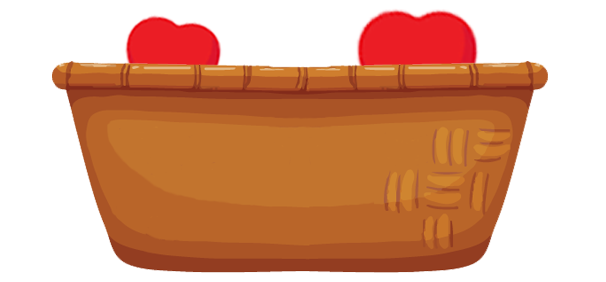
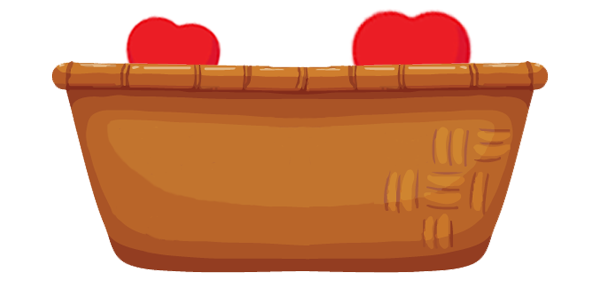
Apple-Basket animation complete!

Changed region(s): [[0.5644, 0.0284, 0.802, 0.227]]

diff --git a/index.html b/index.html
@@ -31,7 +31,7 @@
                     <img class="apple4" src="Extras/apple41.png"/>
                     <img class="apple5" src="Extras/apple51.png"/>
                     <img class="basket1" src="Extras/basket.png"/>
-                    <img class="basket2" src="Extras/basket.png"/>
+                    <img class="basket2" src="Extras/basket2.png"/>
                     
 <!--                    <p>hell</p>-->
 <!--
@@ -85,9 +85,7 @@
                     apple1.animate({ top: wh - 205 }, 1200, 'easeInQuad', function(){
 //                        apple1.css({visibility: 'collapse'}); 
                         if (!flaga5){
-                            $('.basket1').delay(0).queue(function(next){
-                                $(this).attr('src', 'Extras/basket_a1_f.png');
-                            })
+                            $('.basket1').attr('src', 'Extras/basket_a1_f.png');
                         }
                         else{
                              $('.basket1').attr('src', 'Extras/basket_a1_a5.png');
@@ -95,13 +93,6 @@
                         }
                     flaga1 = true;
                     apple1.remove();
-                        
-                    
-    //                    $('.right-side').delay(1000).queue(function(){
-    //                       $('.right-side').append('<img class="apple1" src ="Extras/apple11.png"/>');
-    //                        applie();
-    //                        apple1drop();
-    //                    })
                     });
                     
                     
@@ -131,27 +122,31 @@
                 var bar = $('#progressbar');
                 var presentvalue = bar.val();
                 if (presentvalue < 100){
-                    var bartop = bar.offset().top;
-                    //bar.val(60);            
+                    var bartop = bar.offset().top;           
                     var scrolltext = $('.scroll-down-text');
                     var top1 = scrolltext.offset().top;
                     var wh = $(window).height();
                     bar.animate({ value: "+=30" }, 1000);
 
-
                     var apple2 = $('.apple2');
-                    apple2.animate({ top: wh - 140 }, 1200, 'easeInQuad', function(){
-    //                    apple2.css({visibility: 'collapse'});
-                        
+                    apple2.animate({ top: wh - 250 }, 1200, 'easeInQuad', function(){
+                        if (!flaga3 && !flaga4){
+                            $('.basket2').attr('src', 'Extras/basket_a2.png');
+                        }
+                        else if (flaga3 && !flaga4){
+                            $('.basket2').attr('src', 'Extras/basket_a3_a2.png');
+                        }
+                        else if (!flaga3 && flaga4){
+                            $('.basket2').attr('src', 'Extras/basket_a4_a2.png');
+                        }
+                        else{
+                            $('.basket2').attr('src', 'Extras/basket_a3_a4_a2.png');
+                        }
                         apple2.remove();
-    //                    $('.right-side').delay(1000).queue(function(){
-    //                       $('.right-side').append('<img class="apple2" src ="Extras/apple21.png"/>');
-    //                        applie();
-    //                        apple2drop();
-    //                    })
                     });
-
-
+                    
+                    flaga2 = true;
+                    
                     if (top1 + 0.3*wh < wh - 40){
                         scrolltext.animate({top: top1 + 0.3*wh - 7}, 1000);
                     }
@@ -174,7 +169,6 @@
                 var presentvalue = bar.val();
                 if (presentvalue < 100){
                     var bartop = bar.offset().top;
-                    //bar.val(60);            
                     var scrolltext = $('.scroll-down-text');
                     var top1 = scrolltext.offset().top;
                     var wh = $(window).height();
@@ -182,28 +176,25 @@
 
 
                     var apple3 = $('.apple3');
-                    apple3.animate({ top: wh - 140 }, 1200, 'easeInQuad', function(){
-    //                    apple3.css({visibility: 'collapse'});
-//                        if (true){
-//                            $('.basket1').delay(0).queue(function(next){
-//                                $(this).attr('src', 'Extras/basket_a3_f.png')
-//                            })
-//                        }
-//                        else{
-//                             $('.basket1').delay(0).queue(function(next){
-//                            $(this).attr('src', 'Extras/basket_a1_a3.png')
-//                             })
-//                        }
+                    apple3.animate({ top: wh - 250 }, 1200, 'easeInQuad', function(){
+                        apple3.css({visibility: 'collapse'});
+                        if (!flaga4 && !flaga2){
+                           $('.basket2').attr('src', 'Extras/basket_a3.png');
+                        }
+                        else if (flaga4 && !flaga2){
+                            $('.basket2').attr('src', 'Extras/basket_a3_a4.png');
+                        }
+                        else if (!flaga4 && flaga2){
+                           $('.basket2').attr('src', 'Extras/basket_a3_a2.png');
+                        }
+                        else{
+                            $('.basket2').attr('src', 'Extras/basket_a3_a4_a2.png');
+                        }
                         apple3.remove();
-//                        flaga3 = true;
-    //                    $('.right-side').delay(1000).queue(function(){
-    //                        $('<img class="apple3" src ="Extras/apple31.png" css="top:0!important"/>').appendTo($('.right-side'));
-    ////                        $('.right-side').add('<img class="apple3" src ="Extras/apple31.png"/>');
-    ////                       $('.right-side').append('<img class="apple3" src ="Extras/apple31.png"/>');
-    //                        applie();
-    //                        apple3drop();
-    //                    })
+                        
                     });
+                    
+                    flaga3 = true;
 
                     if (top1 + 0.4*wh < wh - 40){
                         scrolltext.animate({top: top1 + 0.4*wh - 7}, 1000);
@@ -235,15 +226,24 @@
                     bar.animate({ value: "+=20" }, 1000);
 
                     var apple4 = $('.apple4');
-                    apple4.animate({ top: wh - 140 }, 1200, 'easeInQuad', function(){
-    //                    apple1.css({visibility: 'collapse'}); 
+                    apple4.animate({ top: wh - 250 }, 1200, 'easeInQuad', function(){
+                        if (!flaga3 && !flaga2){
+                           $('.basket2').attr('src', 'Extras/basket_a4.png');
+                        }                        
+                        else if (flaga3 && !flaga2){
+                            $('.basket2').attr('src', 'Extras/basket_a3_a4.png');
+                        }
+                        else if (!flaga3 && flaga2){
+                           $('.basket2').attr('src', 'Extras/basket_a4_a2.png');
+                        }
+                        else{
+                           $('.basket2').attr('src', 'Extras/basket_a3_a4_a2.png');
+                        }
                         apple4.remove();
-    //                    $('.right-side').delay(1000).queue(function(){
-    //                       $('.right-side').append('<img class="apple4" src ="Extras/apple41.png"/>');
-    //                        applie();
-    //                        apple4drop();
-    //                    })
                     });
+                    
+                    flaga4 = true;
+
 
                     if (top1 + 0.2*wh < wh - 40){
                         scrolltext.animate({top: top1 + 0.2*wh - 7}, 1000);
@@ -275,7 +275,7 @@
                     bar.animate({ value: "+=30" }, 1000);
 
                     var apple5 = $('.apple5');
-                    apple5.animate({ top: wh - 205 }, 1200, 'easeInQuad', function(){
+                    apple5.animate({ top: wh - 200 }, 1200, 'easeInQuad', function(){
                         if (!flaga1){
                             $('.basket1').delay(0).queue(function(next){
                                 $(this).attr('src', 'Extras/basket_a5_f.png');
@@ -284,14 +284,9 @@
                         else{
                              $('.basket1').attr('src', 'Extras/basket_a1_a5.png');
                         }
+                        
                         flaga5 = true;
-    //                    apple1.css({visibility: 'collapse'}); 
                         apple5.remove();
-    //                    $('.right-side').delay(1000).queue(function(){
-    //                       $('.right-side').append('<img class="apple4" src ="Extras/apple41.png"/>');
-    //                        applie();
-    //                        apple4drop();
-    //                    })
                     });
 
                     if (top1 + 0.3*wh < wh - 40){
@@ -309,53 +304,7 @@
                  }
              })
         }
-//        $(document).on("keyup", function(e) {
-//            
-////            var p = $("p:last");
-//            var code = e.which;
-//            var bar = $('#progressbar');
-//            var presentvalue = bar.val();
-//            var bartop = bar.offset().top;
-//            //bar.val(60);            
-//            var scrolltext = $('.scroll-down-text');
-//            var top1 = scrolltext.offset().top;
-//            var dif = $(document).height() - $(window).height();
-//            
-//            var wh = $(window).height(); 
-////             p.html(wh + '% ||  dif: ' + dif);
-//            
-//            if (code == 40) { 
-//                bar.animate({ value: "+=20" }, 1000);
-//                if (top1 + 0.2*wh < wh - 40){
-//                    scrolltext.animate({top: top1 + 0.2*wh - 7}, 1000);
-//                }
-//                else{
-//                    scrolltext.animate({top: wh - 40}, 1000);
-//                }
-//                if (top1 + 0.2*wh > .9*wh){
-//                    scrolltext.delay(0).queue( function(next){ 
-//                        $(this).css({color:'#f2f2f2'}); 
-//                        next(); 
-//                      });
-//                }
-//
-//            } else if (code == 38) {
-//                bar.animate({ value: "+=30" }, 1000);
-//                if (top1 + 0.3*wh < wh - 40){
-//                    scrolltext.animate({top: top1 + 0.3*wh - 7}, 1000);
-//                }
-//                else{
-//                    scrolltext.animate({top: wh - 40}, 1000);
-//                }
-//                if (top1 + 0.3*wh > .9*wh){
-//                    scrolltext.delay(0).queue( function(next){ 
-//                        $(this).css({color:'#f2f2f2'}); 
-//                        next(); 
-//                      });
-//                }
-//            }
-//        });
-//            
+
             
         //progress bar increases on button click
         $('#increaseprogress').click(function(){

diff --git a/main.css b/main.css
@@ -182,7 +182,7 @@ progress::-moz-progress-bar {
 }
 
 .basket2 {
-    width: 400px;
+    width: 380px;
     right: 10px;
     bottom: 60px;
     position:absolute;
